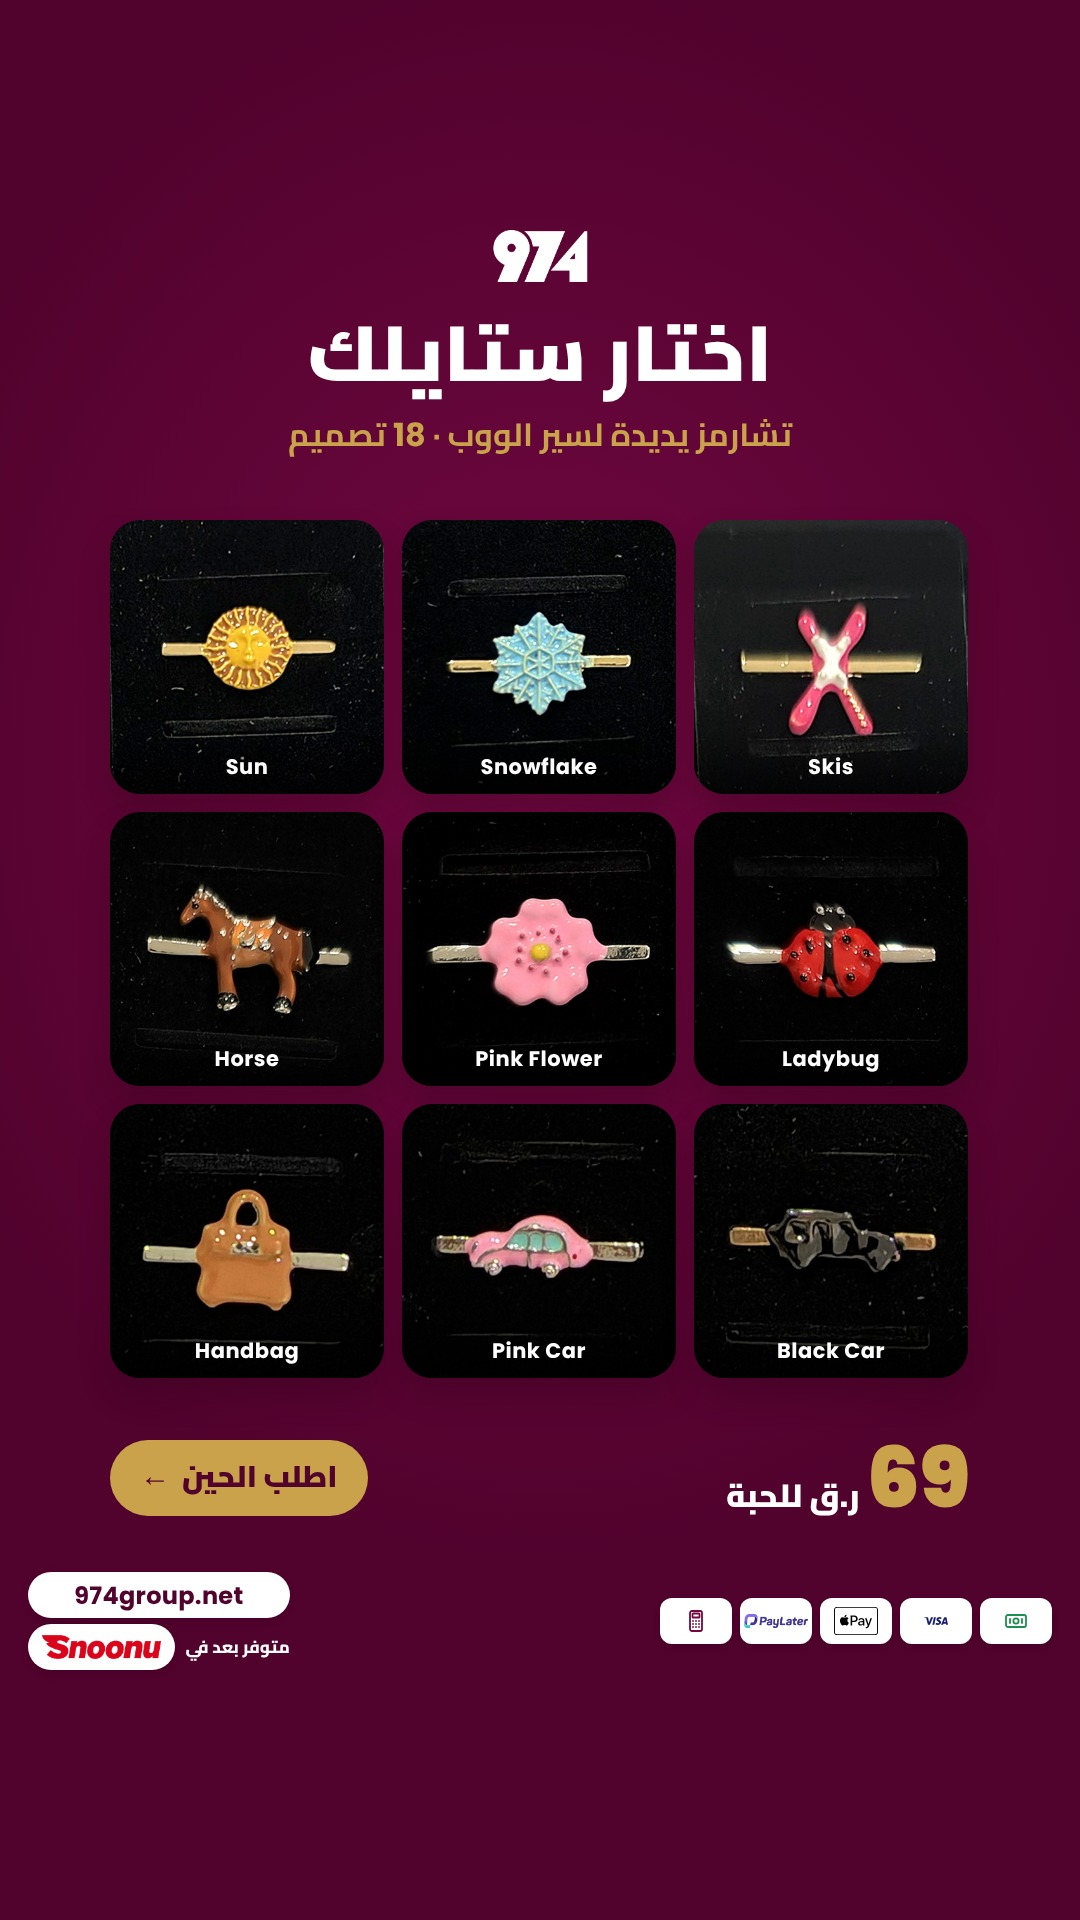
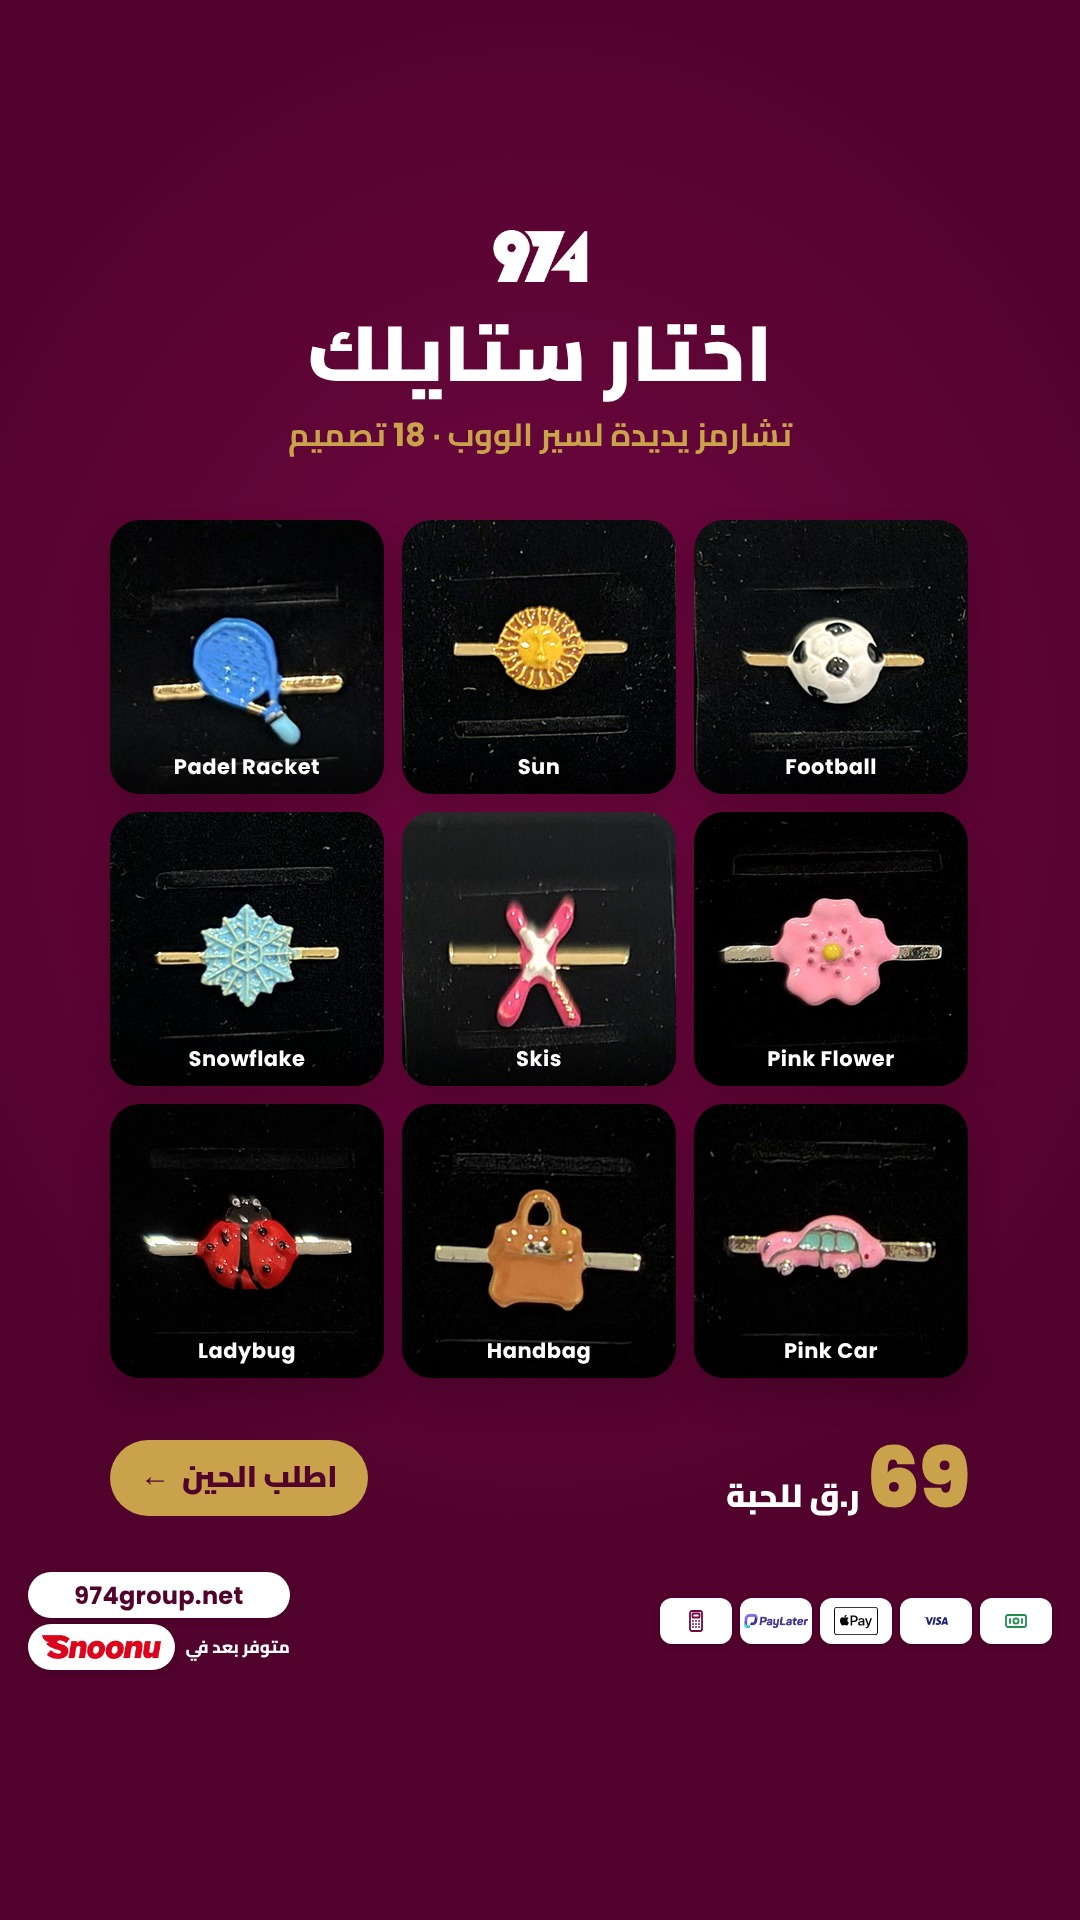
Charms story: add padel and football
Claude-Session: https://claude.ai/code/session_01K6HDWNrArsGSJekW1VcEzV

diff --git a/posts/2026-11/enamel-charms/gen.py b/posts/2026-11/enamel-charms/gen.py
@@ -34,7 +34,7 @@ def post():
     return G.doc(PAPER, DEEP, body, extra=CSS)
 
 def story():
-    keys = ['sun','snowflake','pink-x','horse','pink-flower','ladybug','handbag','pink-car','black-car']
+    keys = ['padel','sun','football','snowflake','pink-x','pink-flower','ladybug','handbag','pink-car']
     body = f'''
 <div class="abs" style="inset:0;background:radial-gradient(90% 60% at 50% 40%,{M} 0%,{DEEP} 70%)"></div><!--/bk-->
 <img class="abs" src="file://{G.LW}" style="left:50%;transform:translateX(-50%);top:0px;height:52px">
